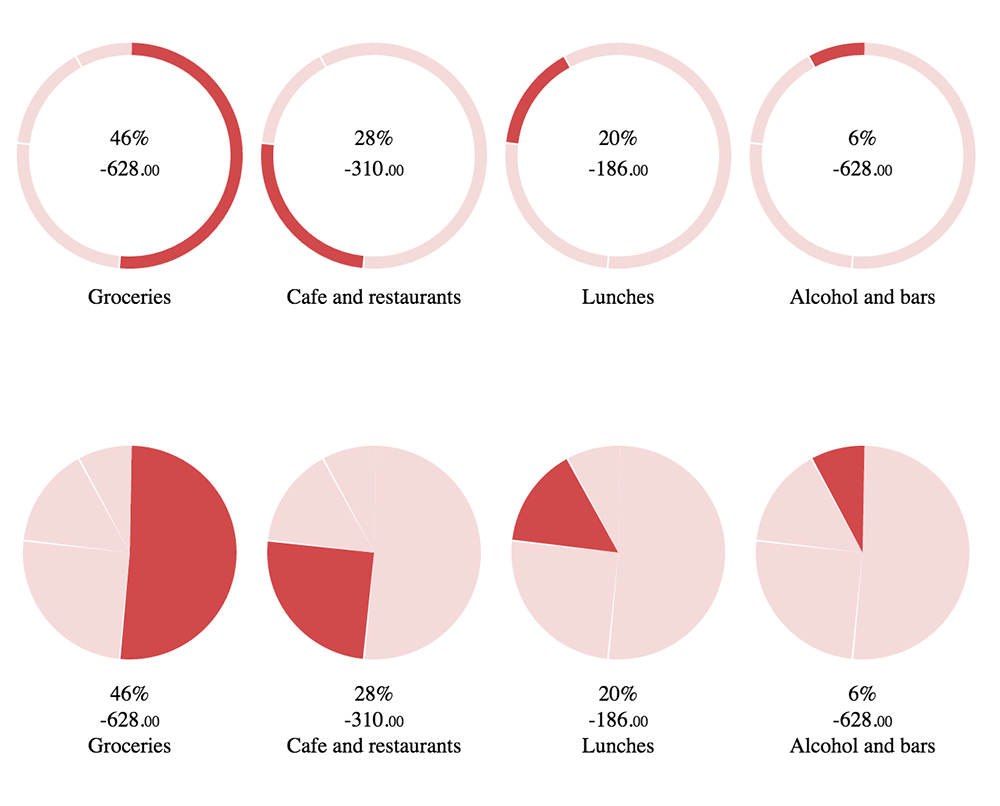
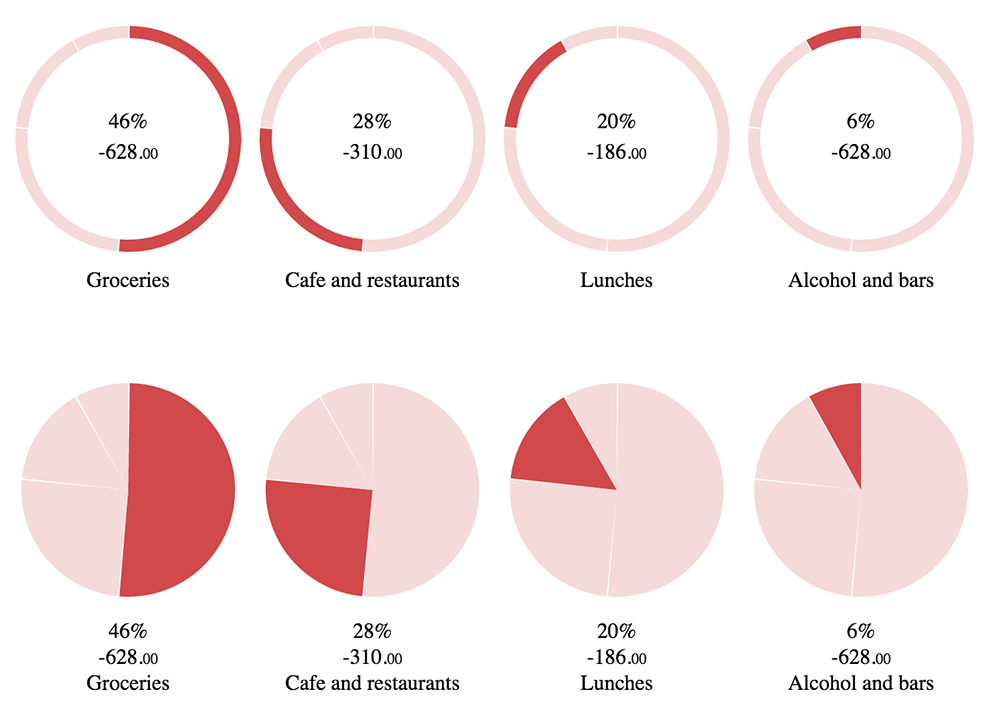
refactoring, multiple option

diff --git a/js/jquery.donutio.js b/js/jquery.donutio.js
@@ -1,4 +1,4 @@
-/* Donutio 2.0 by Michael Hohlovich */
+/* Donutio 2.1 by Michael Hohlovich */
 (function( $ ) {
   $.fn.donutio = function(params) {
     var options = $.extend({
@@ -8,72 +8,101 @@
       "radius": 200,
       "width": 10,
       "padding": 10,
-      "type": "donut"
+      "type": "donut",
+      "active": 0
     }, params);
 
     var containerSize = (options.radius + options.padding) * 2;
     var dataLength = options.data.length;
 
-    var sum = 0;
-    options.data.forEach(function(obj, index){
-      sum += Math.abs(obj.value);
+    var sum = dataSum(options.data);
+    var offsets = getDataPositions(options.data, sum);
+    var gap = (360 - offsets.reduce(function(a, b){return a + b})) / dataLength;
+
+    if (options.multiple) {
+      for (i = 0; i < dataLength; i++) {
+        drawChart(containerSize, gap, options, offsets, i, this);
+      };
+    } else {
+      drawChart(containerSize, gap, options, offsets, options.active, this);
+    };
+
+    return this;
+  };
+
+  var drawChart = function(containerSize, gap, options, offsets, current, $wrap) {
+    var $donutContainer = createContainer(containerSize);
+
+    var svg = createSvgElement("svg");
+    svg.setAttribute('width', containerSize);
+    svg.setAttribute('height', containerSize);
+
+    var dashoffset = 0,
+        newoffset = 0;
+
+    for (j = 0; j < options.data.length; j++) {
+      dashoffset = newoffset + gap;
+      newoffset = dashoffset + offsets[j];
+
+      var path = createSvgElement("path");
+      if (options.type == "donut") {
+        path.setAttribute("stroke-width", options.width);
+        path.setAttribute("fill", "none");
+        if (j == current) {
+          path.setAttribute("stroke", options.color);
+        } else {
+          path.setAttribute("stroke", options.backColor);
+        }
+      } else {
+        path.setAttribute("stroke-width", 0);
+        if (j == current) {
+          path.setAttribute("fill", options.color);
+        } else {
+          path.setAttribute("fill", options.backColor);
+        }
+      }
+      path.setAttribute("d", describeArc(options.type, Math.floor(containerSize / 2), Math.floor(containerSize / 2), options.radius, dashoffset, newoffset));
+      svg.appendChild(path);
+    }
+
+    $donutContainer.append(svg);
+
+    options.data[current].text.forEach(function(value, index){
+      var $text = $("<span class='value-" + index + "' />").html(value);
+      $donutContainer.append($text);
     });
 
+    $wrap.append($donutContainer);
+  };
+
+  var dataSum = function(data) {
+    var sum = 0;
+    data.forEach(function(obj, index){
+      sum += Math.abs(obj.value);
+    });
+    return sum;
+  };
+
+  var getDataPositions = function(data, sum) {
     var offsets = [];
-    options.data.forEach(function(obj, index){
+    data.forEach(function(obj, index){
       var percent = Math.floor(Math.abs(obj.value) / sum * 100);
       var offset = Math.ceil(360 / 100 * percent);
       offsets.push(offset);
     });
+    return offsets;
+  };
 
-    var gap = (360 - offsets.reduce(function(a, b){return a + b})) / (dataLength - 1);
+  var createContainer = function(size) {
+    return $("<div class='donut' />").css({"width": size, "height": size});
+  };
 
-    for (i = 0; i < dataLength; i++) {
-      var $donutContainer = $("<div class='donut' />").css({"width": containerSize, "height": containerSize});
-      this.append($donutContainer);
-
-      var svg = document.createElementNS("http://www.w3.org/2000/svg", "svg");
-      svg.setAttribute('width', containerSize);
-      svg.setAttribute('height', containerSize);
-      svg.setAttributeNS("http://www.w3.org/2000/xmlns/", "xmlns:xlink", "http://www.w3.org/1999/xlink");
-
-      var dashoffset = 0,
-          newoffset = 0;
-
-      for (j = 0; j < dataLength; j++) {
-        dashoffset = newoffset + gap;
-        newoffset = dashoffset + offsets[j];
-
-        var path = document.createElementNS("http://www.w3.org/2000/svg", "path");
-        if (options.type == "donut") {
-          path.setAttribute("stroke-width", options.width);
-          path.setAttribute("fill", "none");
-          if (j == i) {
-            path.setAttribute("stroke", options.color);
-          } else {
-            path.setAttribute("stroke", options.backColor);
-          }
-        } else {
-          path.setAttribute("stroke-width", 0);
-          if (j == i) {
-            path.setAttribute("fill", options.color);
-          } else {
-            path.setAttribute("fill", options.backColor);
-          }
-        }
-        path.setAttribute("d", describeArc(options.type, Math.floor(containerSize / 2), Math.floor(containerSize / 2), options.radius, dashoffset, newoffset));
-        svg.appendChild(path);
-      }
-
-      $donutContainer.append(svg);
-
-      options.data[i].text.forEach(function(value, index){
-        var $text = $("<span class='value-" + index + "' />").html(value);
-        $donutContainer.append($text);
-      });
-    };
-
-    return this;
+  var createSvgElement = function(name) {
+    var elem = document.createElementNS("http://www.w3.org/2000/svg", name);
+    if (name == "svg") {
+      elem.setAttributeNS("http://www.w3.org/2000/xmlns/", "xmlns:xlink", "http://www.w3.org/1999/xlink");
+    }
+    return elem;
   };
 
   var describeArc = function(type, x, y, radius, startAngle, endAngle){
@@ -81,7 +110,6 @@
     var end = polarToCartesian(x, y, radius, startAngle);
     var arcSweep = endAngle - startAngle <= 180 ? "0" : "1";
     var d = [];
-
     if (type == "donut") {
       d = [
         "M", start.x, start.y,
@@ -95,13 +123,11 @@
         "L", start.x, start.y
       ].join(" ");
     }
-
     return d;
   };
 
   var polarToCartesian = function(centerX, centerY, radius, angleInDegrees) {
     var angleInRadians = (angleInDegrees-90) * Math.PI / 180.0;
-
     return {
       x: centerX + (radius * Math.cos(angleInRadians)),
       y: centerY + (radius * Math.sin(angleInRadians))

diff --git a/js/jquery.donutio.min.js b/js/jquery.donutio.min.js
@@ -1,2 +1,2 @@
-/* Donutio 2.0 by Michael Hohlovich */
-!function(t){t.fn.donutio=function(r){var a=t.extend({multiple:!0,color:"#f00",backColor:"#eee",radius:200,width:10,padding:10,type:"donut"},r),o=2*(a.radius+a.padding),n=a.data.length,u=0;a.data.forEach(function(t){u+=Math.abs(t.value)});var s=[];a.data.forEach(function(t){var e=Math.floor(Math.abs(t.value)/u*100),r=Math.ceil(3.6*e);s.push(r)});var d=(360-s.reduce(function(t,e){return t+e}))/(n-1);for(i=0;n>i;i++){var h=t("<div class='donut' />").css({width:o,height:o});this.append(h);var l=document.createElementNS("http://www.w3.org/2000/svg","svg");l.setAttribute("width",o),l.setAttribute("height",o),l.setAttributeNS("http://www.w3.org/2000/xmlns/","xmlns:xlink","http://www.w3.org/1999/xlink");var c=0,w=0;for(j=0;n>j;j++){c=w+d,w=c+s[j];var f=document.createElementNS("http://www.w3.org/2000/svg","path");"donut"==a.type?(f.setAttribute("stroke-width",a.width),f.setAttribute("fill","none"),j==i?f.setAttribute("stroke",a.color):f.setAttribute("stroke",a.backColor)):(f.setAttribute("stroke-width",0),j==i?f.setAttribute("fill",a.color):f.setAttribute("fill",a.backColor)),f.setAttribute("d",e(a.type,Math.floor(o/2),Math.floor(o/2),a.radius,c,w)),l.appendChild(f)}h.append(l),a.data[i].text.forEach(function(e,r){var a=t("<span class='value-"+r+"' />").html(e);h.append(a)})}return this};var e=function(t,e,a,i,o,n){var u=r(e,a,i,n),s=r(e,a,i,o),d=180>=n-o?"0":"1",h=[];return h="donut"==t?["M",u.x,u.y,"A",i,i,0,d,0,s.x,s.y].join(" "):["M",u.x,u.y,"A",i,i,0,d,0,s.x,s.y,"L",e,a,"L",u.x,u.y].join(" ")},r=function(t,e,r,a){var i=(a-90)*Math.PI/180;return{x:t+r*Math.cos(i),y:e+r*Math.sin(i)}}}(jQuery);
+/* Donutio 2.1 by Michael Hohlovich */
+!function(t){t.fn.donutio=function(a){var o=t.extend({multiple:!0,color:"#f00",backColor:"#eee",radius:200,width:10,padding:10,type:"donut",active:0},a),u=2*(o.radius+o.padding),s=o.data.length,l=r(o.data),h=n(o.data,l),d=(360-h.reduce(function(t,e){return t+e}))/s;if(o.multiple)for(i=0;s>i;i++)e(u,d,o,h,i,this);else e(u,d,o,h,o.active,this);return this};var e=function(e,r,i,n,s,l){var h=a(e),d=o("svg");d.setAttribute("width",e),d.setAttribute("height",e);var c=0,f=0;for(j=0;j<i.data.length;j++){c=f+r,f=c+n[j];var p=o("path");"donut"==i.type?(p.setAttribute("stroke-width",i.width),p.setAttribute("fill","none"),j==s?p.setAttribute("stroke",i.color):p.setAttribute("stroke",i.backColor)):(p.setAttribute("stroke-width",0),j==s?p.setAttribute("fill",i.color):p.setAttribute("fill",i.backColor)),p.setAttribute("d",u(i.type,Math.floor(e/2),Math.floor(e/2),i.radius,c,f)),d.appendChild(p)}h.append(d),i.data[s].text.forEach(function(e,r){var i=t("<span class='value-"+r+"' />").html(e);h.append(i)}),l.append(h)},r=function(t){var e=0;return t.forEach(function(t){e+=Math.abs(t.value)}),e},n=function(t,e){var r=[];return t.forEach(function(t){var i=Math.floor(Math.abs(t.value)/e*100),n=Math.ceil(3.6*i);r.push(n)}),r},a=function(e){return t("<div class='donut' />").css({width:e,height:e})},o=function(t){var e=document.createElementNS("http://www.w3.org/2000/svg",t);return"svg"==t&&e.setAttributeNS("http://www.w3.org/2000/xmlns/","xmlns:xlink","http://www.w3.org/1999/xlink"),e},u=function(t,e,r,i,n,a){var o=s(e,r,i,a),u=s(e,r,i,n),l=180>=a-n?"0":"1",h=[];return h="donut"==t?["M",o.x,o.y,"A",i,i,0,l,0,u.x,u.y].join(" "):["M",o.x,o.y,"A",i,i,0,l,0,u.x,u.y,"L",e,r,"L",o.x,o.y].join(" ")},s=function(t,e,r,i){var n=(i-90)*Math.PI/180;return{x:t+r*Math.cos(n),y:e+r*Math.sin(n)}}}(jQuery);

diff --git a/example/donutio.html b/example/donutio.html
@@ -35,6 +35,7 @@
         color: "#D2494B",
         backColor: "#F5DADA"
       });
+
       $("#wrap-2").donutio({
         type: "pie",
         data: data,
@@ -42,12 +43,23 @@
         color: "#D2494B",
         backColor: "#F5DADA"
       });
+
+      $("#wrap-3").donutio({
+        multiple: false,
+        type: "donut",
+        data: data,
+        active: 1,
+        radius: 70,
+        width: 8,
+        color: "#D2494B",
+        backColor: "#F5DADA"
+      });
     });
   </script>
   <style type="text/css">
-    #wrap, #wrap-2 {
+    #wrap, #wrap-2, #wrap-3 {
       clear: both;
-      padding-top: 100px;
+      padding-top: 70px;
     }
     .donut {
       float: left;
@@ -78,5 +90,6 @@
 <body>
   <div id="wrap"></div>
   <div id="wrap-2"></div>
+  <div id="wrap-3"></div>
 </body>
 </html>

diff --git a/README.md b/README.md
@@ -1,4 +1,4 @@
-Donutio 2.0
+Donutio 2.1
 =====
 
 jQuery.Donutio - plugin that draws donut charts.
@@ -7,6 +7,7 @@ jQuery.Donutio - plugin that draws donut charts.
 
 ```
   $("#wrap").donutio({
+    multiple: true,
     type: "donut",
     data: data,
     radius: 70,
@@ -24,6 +25,10 @@ It can contain html tags.
 Each string will be placed into a separate html tag with unique class name.
 
 Type - "donut" or "pie", see example on preview
+
+Multiple - indicates that each data item should be drawn separately. By default true.
+In case of false, you have to add the parameter "active" with data item array index.
+For example, active: 2.
 
 Radius - radius of donut chart
 
@@ -60,3 +65,4 @@ backColor - non-active segments color
 ```
 
 The plugin will draw four donut charts with text and highlighted value segment.
+(if multiple:true or without multiple option)
